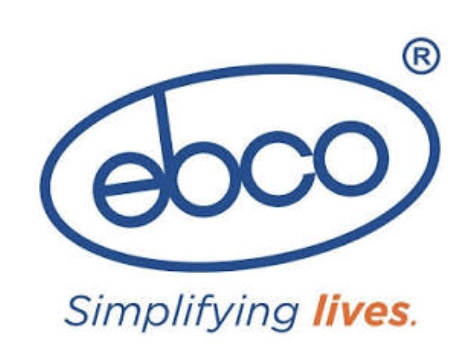
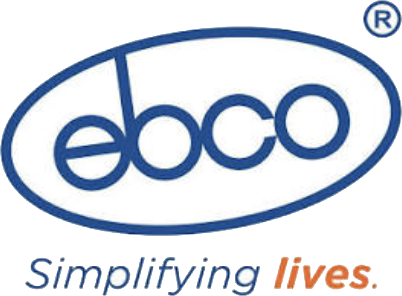
Give the brand marks their own ground instead of fourteen boxes
The logos arrived as screenshots, each carrying its own baked-in
background — white for most, a yellow block for UltraTech, an orange
frame for Ambuja, near-black behind Somany. On a card apiece that read as
a row of boxes with logos inside them rather than a row of logos, and
after dark every one of those boxes lit up.

So the backgrounds are now real transparency, filled inward from the edge
and faded at the boundary so nothing leaves a fringe, then trimmed of the
margin that came with them. Somany is stripped by colour rather than by
fill: its mark is red on near-black, and the dark inside the counters of
the O and the A is unreachable from the edge. Trimming alone took Somany
from 446x342 to 338x56.

One light panel now sits behind the whole row. Dropping the cards
entirely was not open to us — Hettich, UltraTech, Ambuja and Mars are all
dark ink and vanished against the dark page — and inverting them would
have falsified the colours these marks are. `bg-photo` already exists for
this exact problem: it is the ground cut-out imagery sits on, and it
stays near-white in both palettes.

The box each mark is drawn in is taller than the wordmarks need, because
`object-contain` stops at whichever edge binds first. Wide marks are held
by the cell width long before they reach it; square ones — Ambuja,
Häfele — are held by the height, and at a shorter box they shrank to
specks beside their neighbours.

Also removes `public/_check/`, a scratch directory of mine that was swept
[…]

diff --git a/src/components/storefront/home/BrandWall.tsx b/src/components/storefront/home/BrandWall.tsx
@@ -10,8 +10,17 @@ import { brandKey, getBrandLinkTargets } from "@/lib/data/catalog";
  * them reads as a missing image, so a brand without supplied artwork is
  * left off the roster entirely instead of being written out.
  *
+ * One light panel behind the whole row rather than a card per logo. The
+ * marks are cut out on white, and after dark a fourteen-card grid put a
+ * white rectangle behind every one of them — the row became boxes with
+ * logos in them rather than logos. Worse, the alternative of dropping the
+ * cards entirely is not open: Hettich, UltraTech, Ambuja and Mars are all
+ * dark ink, and on the dark page they simply disappeared. `bg-photo`
+ * exists for this exact problem — it is the ground cut-out imagery sits
+ * on, and it stays near-white in both palettes.
+ *
  * `flex-wrap` rather than a grid because the roster is hand-kept and its
- * length changes: a grid leaves a lone plate stranded at the start of a
+ * length changes: a grid leaves a lone logo stranded at the start of a
  * last row, while a centred wrap keeps a short final row balanced at any
  * count.
  */
@@ -19,51 +28,62 @@ export async function BrandWall() {
   const targets = await getBrandLinkTargets();
 
   return (
-    <div className="flex flex-wrap justify-center gap-2 px-5 lg:gap-3 lg:px-0">
-      {BRAND_WALL.map(({ slug, name, logo }) => {
-        const target = targets.get(brandKey(name)) ?? targets.get(slug);
+    <div className="rounded-card border border-photo-edge bg-photo px-4 py-6 lg:rounded-2xl lg:px-8 lg:py-8">
+      {/* Seven across from `lg` puts the fourteen marks in two even rows. */}
+      <div className="flex flex-wrap justify-center gap-3 lg:gap-4">
+        {BRAND_WALL.map(({ slug, name, logo }) => {
+          const target = targets.get(brandKey(name)) ?? targets.get(slug);
 
-        /* One plate, drawn the same whether or not it leads anywhere:
-           a logo that is a link and a logo that is not should not be
-           two different sizes on the same wall. */
-        const plate = (
-          /* Not `next/image`: the marks arrive at wildly different aspect
-             ratios and are already small, so a fixed `sizes` would either
-             upscale the wide ones or waste bytes on the square ones. */
-          // eslint-disable-next-line @next/next/no-img-element
-          <img
-            src={logo}
-            alt={name}
-            loading="lazy"
-            decoding="async"
-            /* A definite box rather than `max-h`/`max-w`: sized only by
-               maximums, a lazy image occupies nothing until it decodes
-               and then snaps to size, so a wall of fourteen of them
-               settles in fourteen visible steps. Reserving the box up
-               front costs nothing and `object-contain` letterboxes the
-               artwork inside it exactly as the maximums would have. */
-            className="h-9 w-full object-contain lg:h-10"
-          />
-        );
+          /* Sized the same whether or not it leads anywhere: a logo that
+             is a link and a logo that is not should not be two different
+             sizes on the same wall. */
+          const cell =
+            "flex basis-[calc(25%-0.5625rem)] items-center justify-center lg:basis-[calc(14.2857%-0.858rem)]";
 
-        const shell =
-          "flex h-20 basis-[calc(33.333%-0.334rem)] items-center justify-center rounded-lg border border-line-soft bg-surface px-3 py-2 sm:basis-[calc(25%-0.375rem)] lg:h-24 lg:basis-[calc(16.666%-0.625rem)] lg:px-4";
+          const plate = (
+            /* Not `next/image`: the marks arrive at wildly different
+               aspect ratios and are already small, so a fixed `sizes`
+               would either upscale the wide ones or waste bytes on the
+               square ones. */
+            // eslint-disable-next-line @next/next/no-img-element
+            <img
+              src={logo}
+              alt={name}
+              loading="lazy"
+              decoding="async"
+              /* A definite box rather than `max-h`/`max-w`: sized only by
+                 maximums, a lazy image occupies nothing until it decodes
+                 and then snaps to size, so a wall of fourteen of them
+                 settles in fourteen visible steps. Reserving the box up
+                 front costs nothing and `object-contain` letterboxes the
+                 artwork inside it exactly as the maximums would have.
 
-        return target ? (
-          <Link
-            key={slug}
-            href={`/products?brand=${target}`}
-            aria-label={name}
-            className={`${shell} transition-[border-color,box-shadow] duration-200 hover:border-line hover:shadow-xs`}
-          >
-            {plate}
-          </Link>
-        ) : (
-          <div key={slug} className={shell}>
-            {plate}
-          </div>
-        );
-      })}
+                 The box is taller than the wordmarks need because
+                 `object-contain` scales to whichever edge binds first:
+                 wide marks like Mars stop at the cell width long before
+                 they reach this height, while square ones — Ambuja,
+                 Häfele — are held by it, and at a shorter height they
+                 shrank to specks beside their neighbours. */
+              className="h-9 w-full object-contain lg:h-12"
+            />
+          );
+
+          return target ? (
+            <Link
+              key={slug}
+              href={`/products?brand=${target}`}
+              aria-label={name}
+              className={`${cell} opacity-90 transition-opacity duration-200 hover:opacity-100`}
+            >
+              {plate}
+            </Link>
+          ) : (
+            <div key={slug} className={cell}>
+              {plate}
+            </div>
+          );
+        })}
+      </div>
     </div>
   );
 }

diff --git a/src/app/page.tsx b/src/app/page.tsx
@@ -195,7 +195,9 @@ export default async function HomePage() {
               href="/products"
               linkLabel="Shop all"
             />
-            <BrandWall />
+            <Gutter>
+              <BrandWall />
+            </Gutter>
           </section>
 
           <Gutter>
